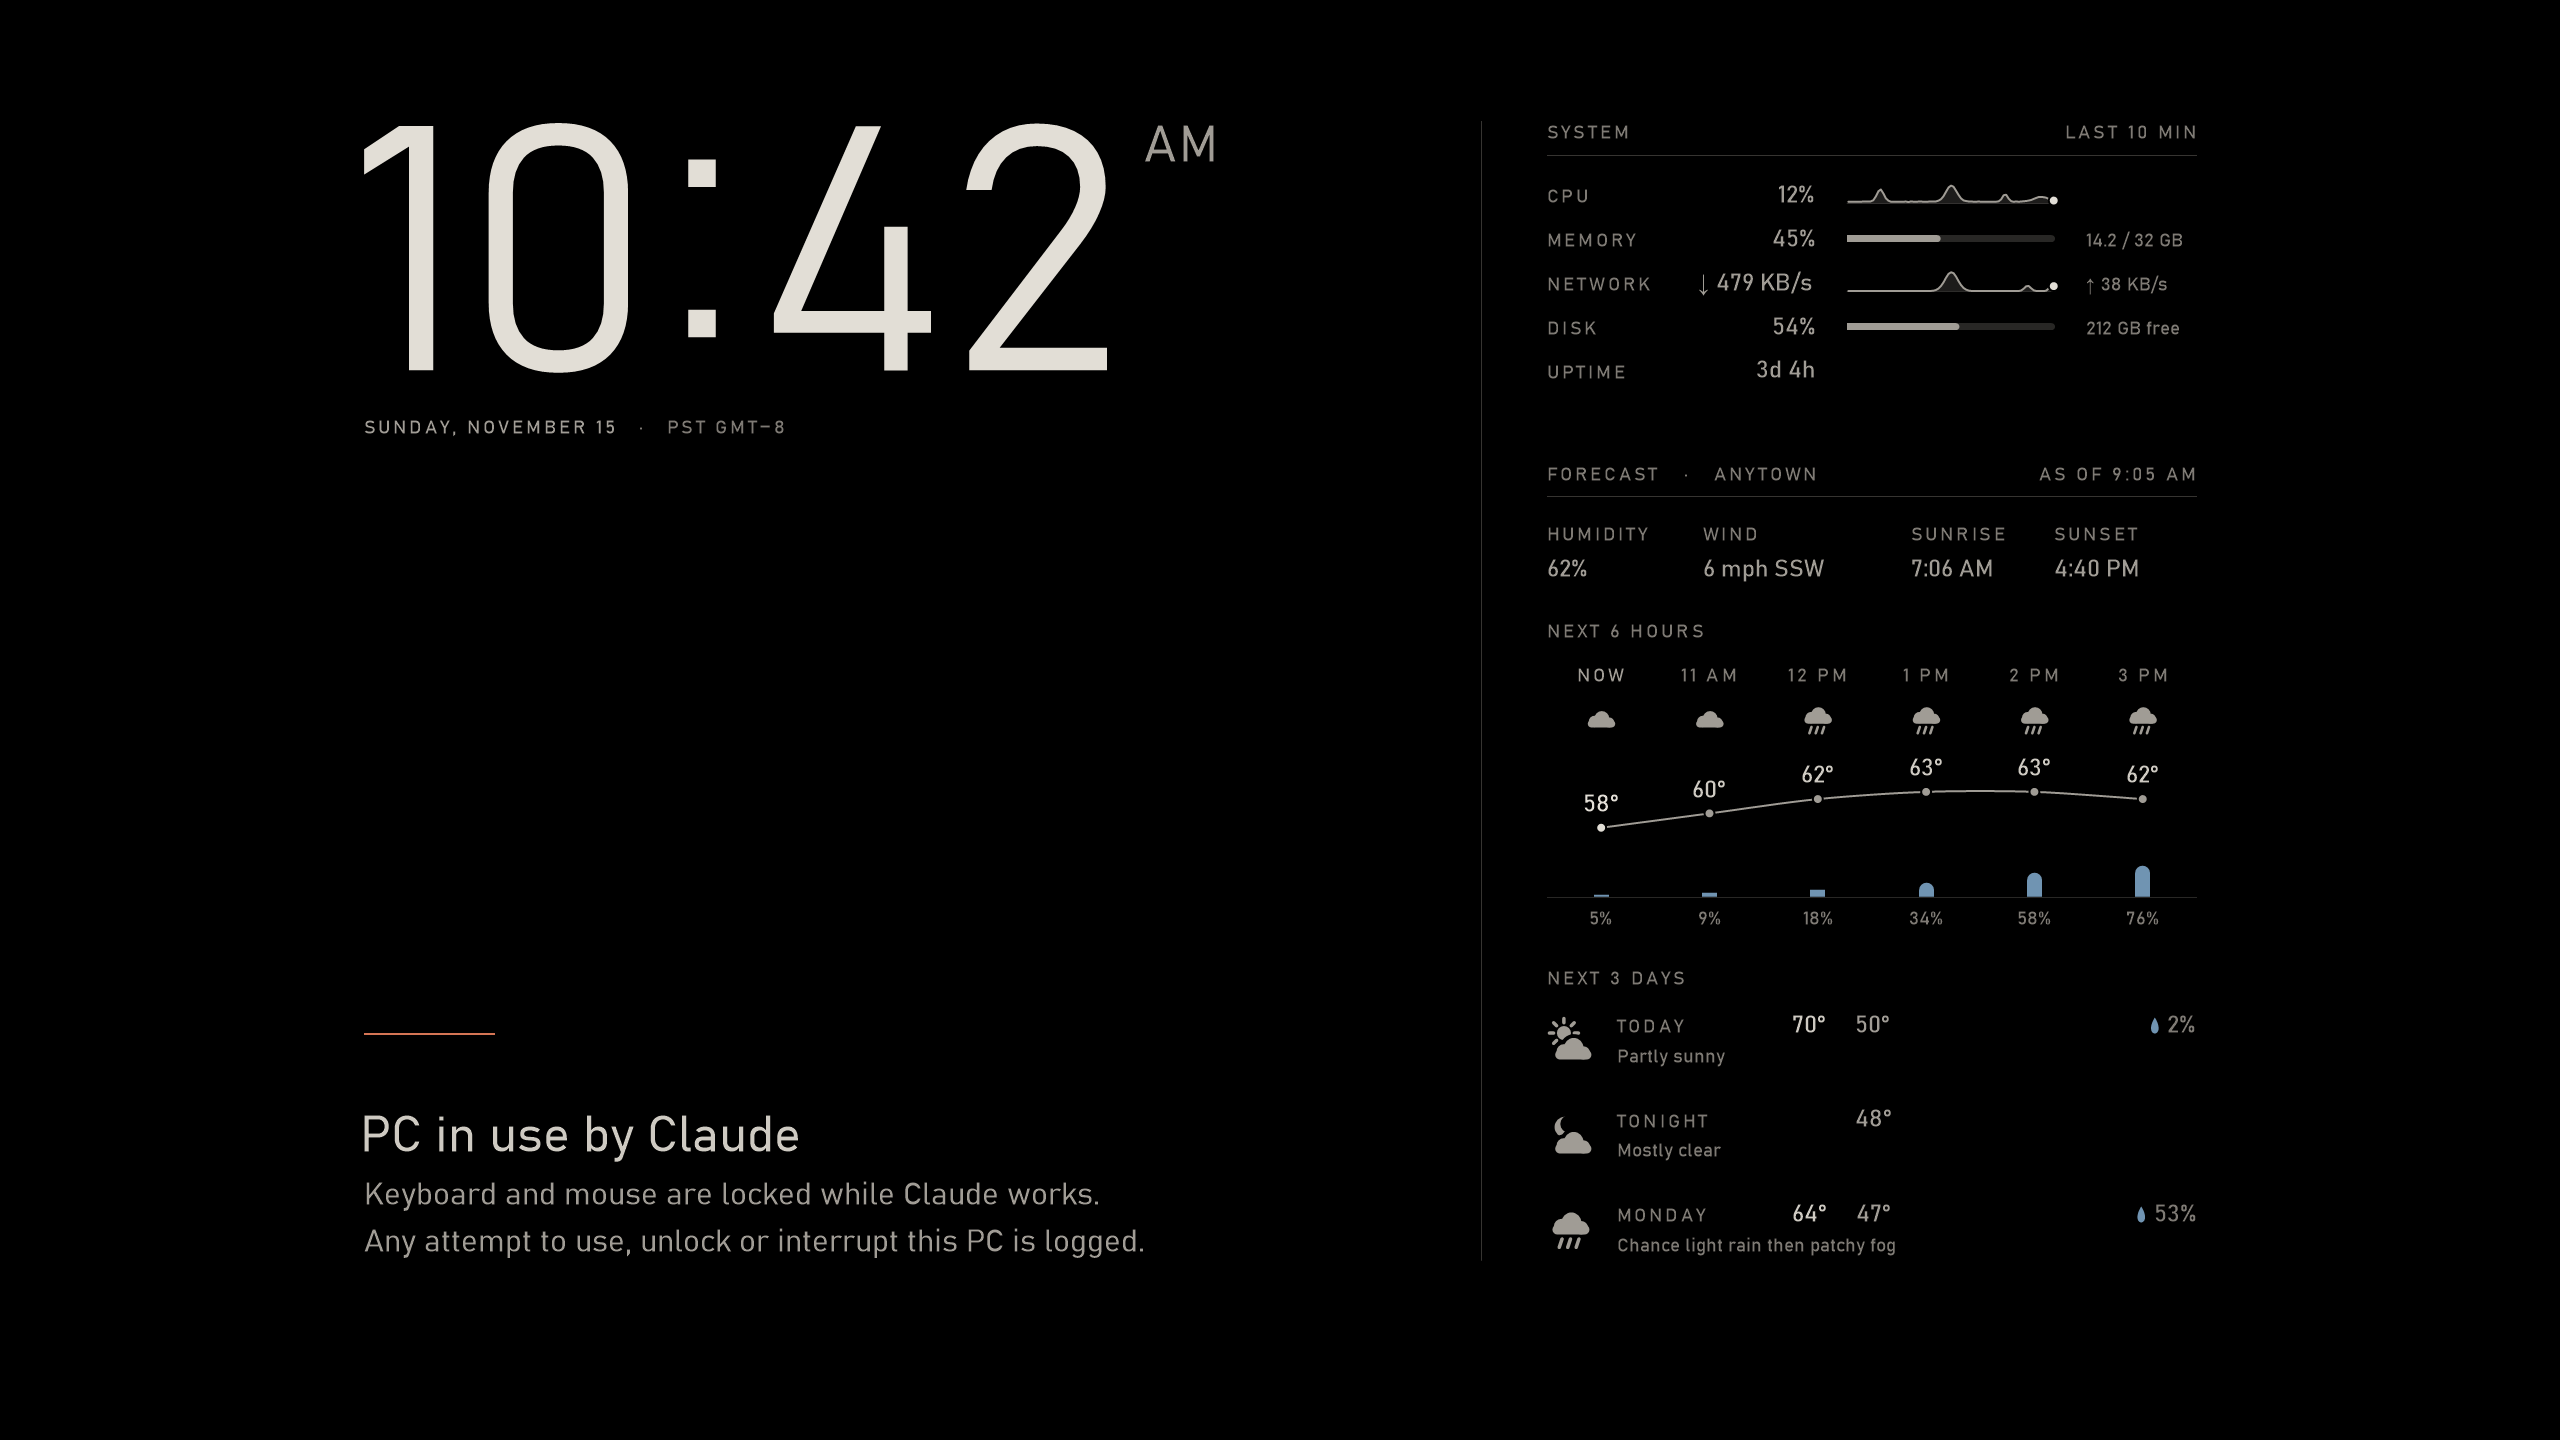
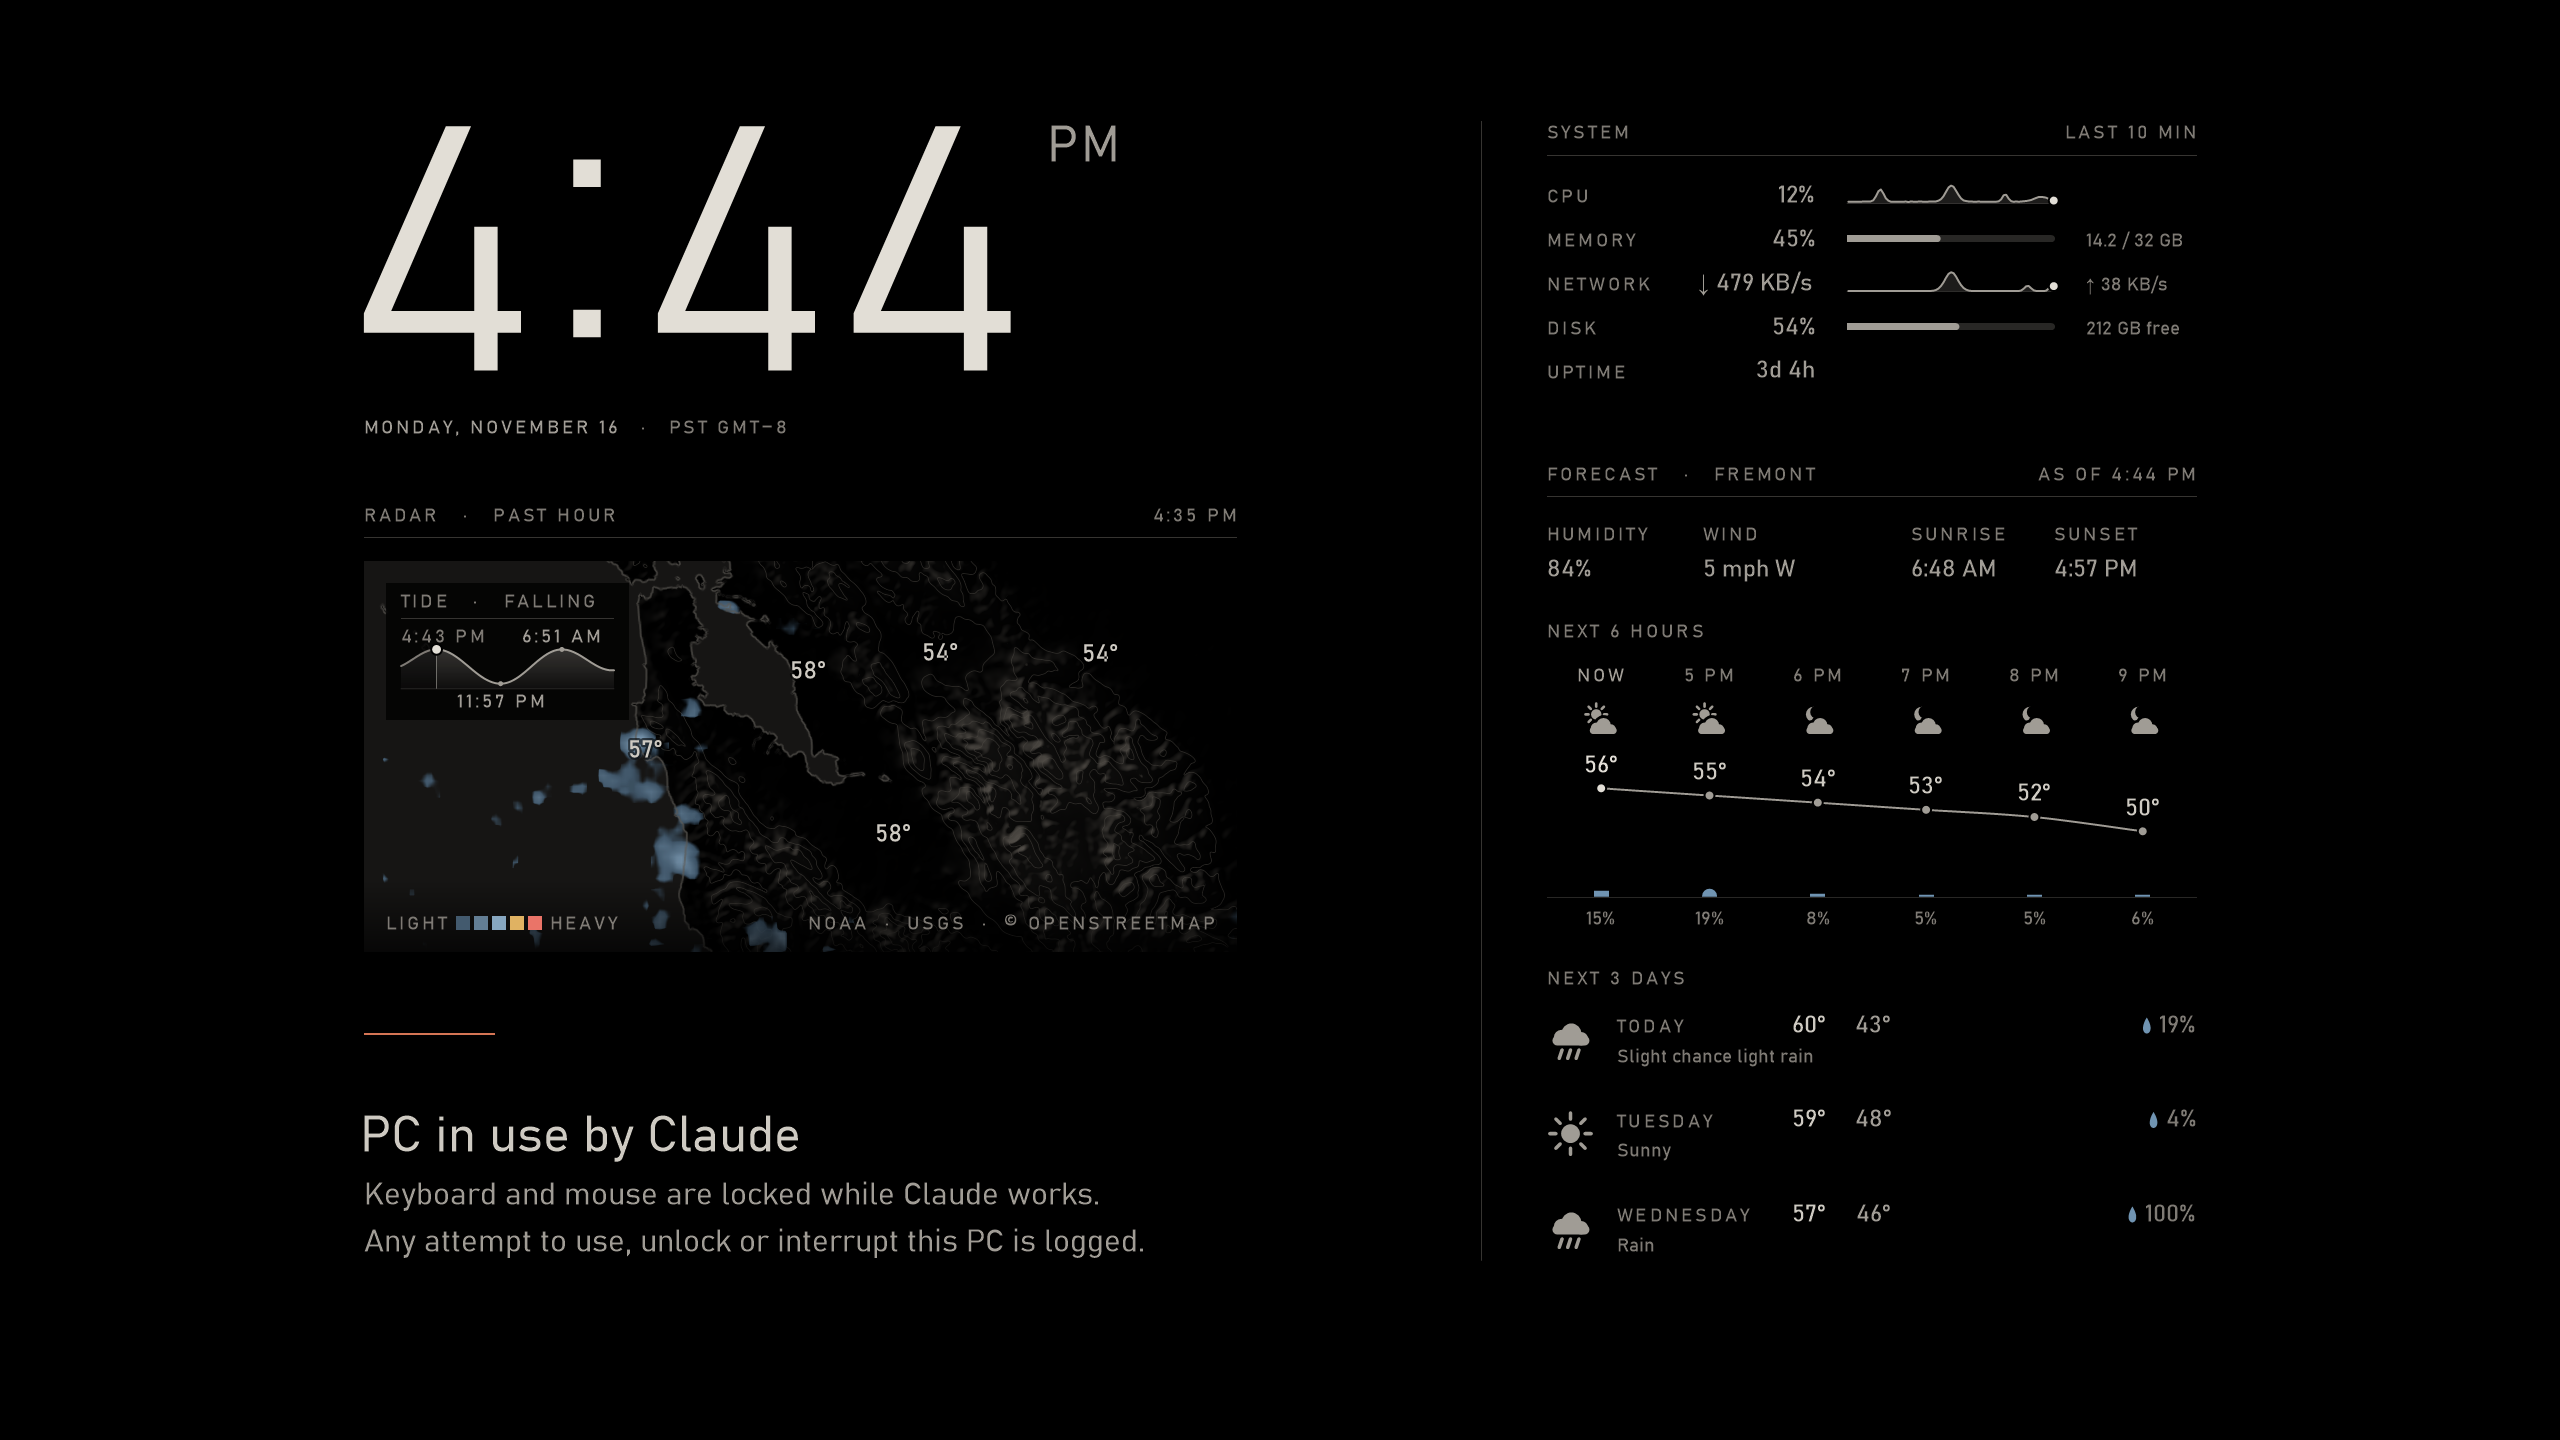
Curtain card: the Bay Area screenshot, with the tide chart
The Privacy Curtain card now shows the curtain over the San Francisco Bay
Area's weather map, with its shaded hills and the new tide chart, instead
of the made-up sample place. It was rendered by the curtain's preview mode
with home left off the map, so the picture marks no address. The image
and its thumbnail are served from assets/ again; the alt text and the
larger view's caption describe the new picture.

diff --git a/index.html b/index.html
@@ -140,8 +140,8 @@
             <p class="artifact-tag st-label">Open source tool</p>
             <h3 class="st-h3">Privacy Curtain</h3>
             <figure class="artifact-shot">
-              <a class="shot" href="https://raw.githubusercontent.com/somehippie/privacy-curtain/16fff3d468ef84836caa7913a9eed9a1b9be1309/docs/curtain.png" data-size="2560x1440" data-caption="Privacy Curtain: the screen at 2560 by 1440, with sample data." data-alt="The Privacy Curtain on a 2560 by 1440 screen, showing a made-up sample place: the time and date, a weather map of a band of rain moving in from the west over a coast with shaded hills and contour lines, labelled with temperatures, a windy coast and the next high tide, the message &ldquo;PC in use by Claude&rdquo;, ten-minute CPU and network graphs, memory and disk bars, and the forecast with humidity, wind, sunrise and sunset, the next six hours and the next three days.">
-                <img src="https://raw.githubusercontent.com/somehippie/privacy-curtain/16fff3d468ef84836caa7913a9eed9a1b9be1309/docs/curtain.png" width="832" height="468" loading="lazy" decoding="async" alt="The Privacy Curtain on a widescreen monitor: a large clock, a radar map of rain moving in toward a coast over shaded hills, with temperatures and the tide marked, and the message &ldquo;PC in use by Claude&rdquo; on the left; live system stats and the forecast on the right."><span class="visually-hidden"> Opens a larger view.</span>
+              <a class="shot" href="assets/privacy-curtain.png" data-size="2560x1440" data-caption="Privacy Curtain: the screen at 2560 by 1440, with the Bay Area's weather." data-alt="The Privacy Curtain on a 2560 by 1440 screen: the time and date, a radar map of the San Francisco Bay Area with its hills shaded and contoured, a few light showers off the coast, temperatures around the Bay and a tide chart in the corner, the message &ldquo;PC in use by Claude&rdquo;, ten-minute CPU and network graphs, memory and disk bars, and the forecast with humidity, wind, sunrise and sunset, the next six hours and the next three days.">
+                <img src="assets/privacy-curtain-thumb.png" width="832" height="468" loading="lazy" decoding="async" alt="The Privacy Curtain on a widescreen monitor: a large clock, a radar map of the San Francisco Bay Area over shaded hills, with temperatures and a tide chart, and the message &ldquo;PC in use by Claude&rdquo; on the left; live system stats and the forecast on the right."><span class="visually-hidden"> Opens a larger view.</span>
               </a>
               <figcaption class="st-small">Rendered by the curtain's own preview mode, since the real one hides from screenshots.</figcaption>
             </figure>
